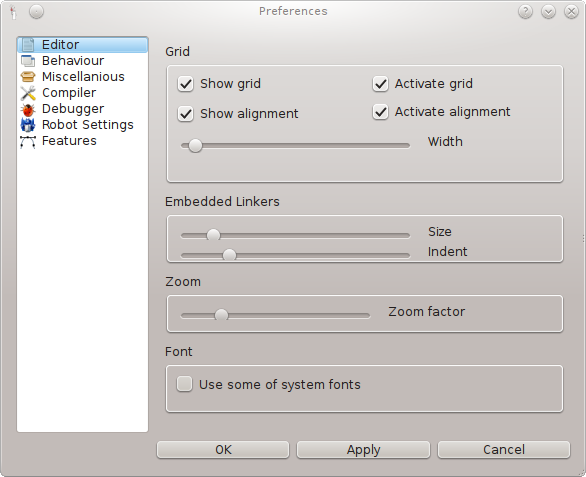
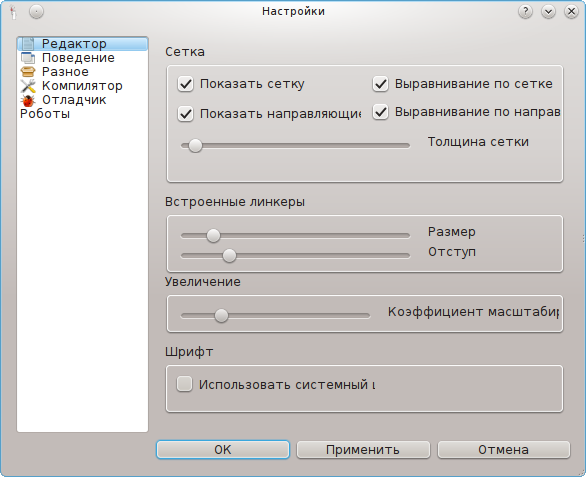
replaced some screenshots

diff --git a/doc/html/interface.html b/doc/html/interface.html
@@ -27,7 +27,7 @@
       <ul>
         <li><i>Выполнить</i> — запустить выполнение отображаемой в данный момент диаграммы на роботе.</li>
         <li><i>Прервать выполнение</i> — остановить выполнение программы, сбросив интерпретатор в изначальное состояние.</li>
-        <li><i>Отключить робота</i> — прервать выполнение программы и послать роботу команды отключения моторов.</li>
+        <li><i>Остановить робота</i> — прервать выполнение программы и послать роботу команды отключения моторов.</li>
         <li><i>Загрузить программу</i> — сгенерировать код, соответствующий текущей диаграмме, и загрузить его для выполнения в роботе.</li>
         <li><i>Загрузить прошивку</i> — загрузить в робота прошивку, позволяющую выполнять загруженные в него программы.</li>
       </ul>
@@ -71,13 +71,13 @@
 <ul>
   <li><i>Показывать сетку</i> — отображать/не отображать выравнивающую сетку на сцене редактора диаграмм.</li>
   <li><i>Показать направляющие</i> — отображать/не отображать направляющие линии на сцене редактора диаграмм. Направляющие линии появляются, когда блок находится на одной горизонтали или вертикали с другим блоком, и помогают выравнивать блоки на сцене.</li>
-  <li><i>Активировать сетку</i> — осуществлять/не осуществлять выравнивание блоков по сетке.</li>
-  <li><i>Активировать направляющие</i> — осуществлять/не осуществлять выравнивание блоков по направляющим.</li>
-  <li><i>Ширина</i> — толщина линий сетки. Настраивается в зависимости от яркости монитора или проектора.</li>
+  <li><i>Выравнивание по сетке</i> — осуществлять/не осуществлять выравнивание блоков по сетке.</li>
+  <li><i>Выравнивание по направляющим</i> — осуществлять/не осуществлять выравнивание блоков по направляющим.</li>
+  <li><i>Толщина сетки</i> — толщина линий сетки. Настраивается в зависимости от яркости монитора или проектора.</li>
   <!-- <li><i>Размер</i> — размер встроенного линкера, т.е. кружка над блоком на диаграмме, осуществляющего создание связей между элементами (см. раздел <a href="programming.html#links">Создание связей</a>).</li> -->
   <li><i>Отступ</i> — отступ встроенного линкера от пиктограммы блока.</li>
-  <li><i>Фактор увеличения</i> — коэффициент масштабирования диаграмм при увеличении/уменьшении с помощью колесика мыши или соответствующих операций панели "Вид".</li>
-  <li><i>Использовать некоторые системные шрифты</i> — выбрать для отображения текста на сцене один из шрифтов операционной системы.</li>
+  <li><i>Коэффициент масштабирования</i> — коэффициент масштабирования диаграмм при увеличении/уменьшении с помощью колесика мыши или соответствующих операций панели "Вид".</li>
+  <li><i>Использовать системный шрифт	</i> — выбрать для отображения текста на сцене один из шрифтов операционной системы.</li>
 </ul>
 </div>
 
@@ -90,9 +90,9 @@
 <div>
 <ul>
   <li><i>Перелючение табов в палитре</i> — переключать/не переключать закладки в палитре элементов при смене редактора.</li>
-  <li><i>Arrange Links</i> — перецеплять/не перецеплять конец связи к ближайшему порту блока при его движении.</li>
+  <li><i>Упорядочивать связи</i> — перецеплять/не перецеплять конец связи к ближайшему порту блока при его движении.</li>
   <li><i>Создание новой диаграммы</i> — показывать/не показывать при старте приложения окно с предложением создать новую диаграмму, если не сохранено ни одной диаграммы.</li>
-  <li><i>Показать окно</i> — показывать/не показывать окно предупреждений в нижней части экрана.</li>
+  <li><i>Показывать окно предупреждений</i> — показывать/не показывать окно предупреждений в нижней части экрана.</li>
 </ul>
 </div>
 

diff --git a/qrgui/mainwindow/mainWindow.cpp b/qrgui/mainwindow/mainWindow.cpp
@@ -100,9 +100,9 @@ MainWindow::MainWindow()
 		setWindowIcon(mToolManager.customizer()->applicationIcon());
 	}
 
-#if defined(Q_WS_WIN)
+//#if defined(Q_WS_WIN)
 	mUi->menuSvn->setEnabled(false);  // Doesn't work on Windows anyway.
-#endif
+//#endif
 
 	mUi->tabs->setTabsClosable(true);
 	mUi->tabs->setMovable(true);
